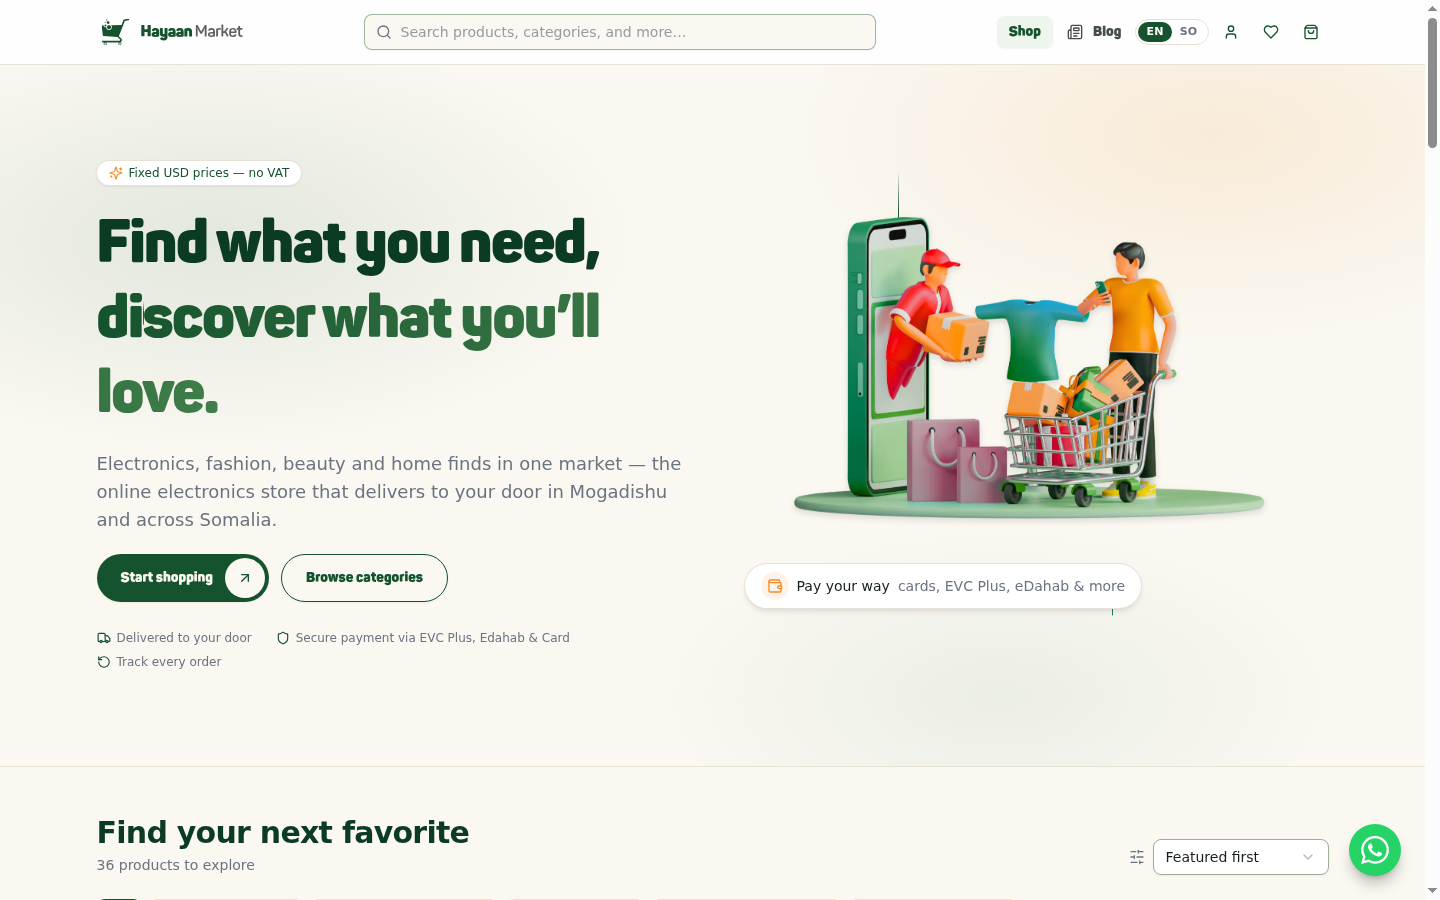
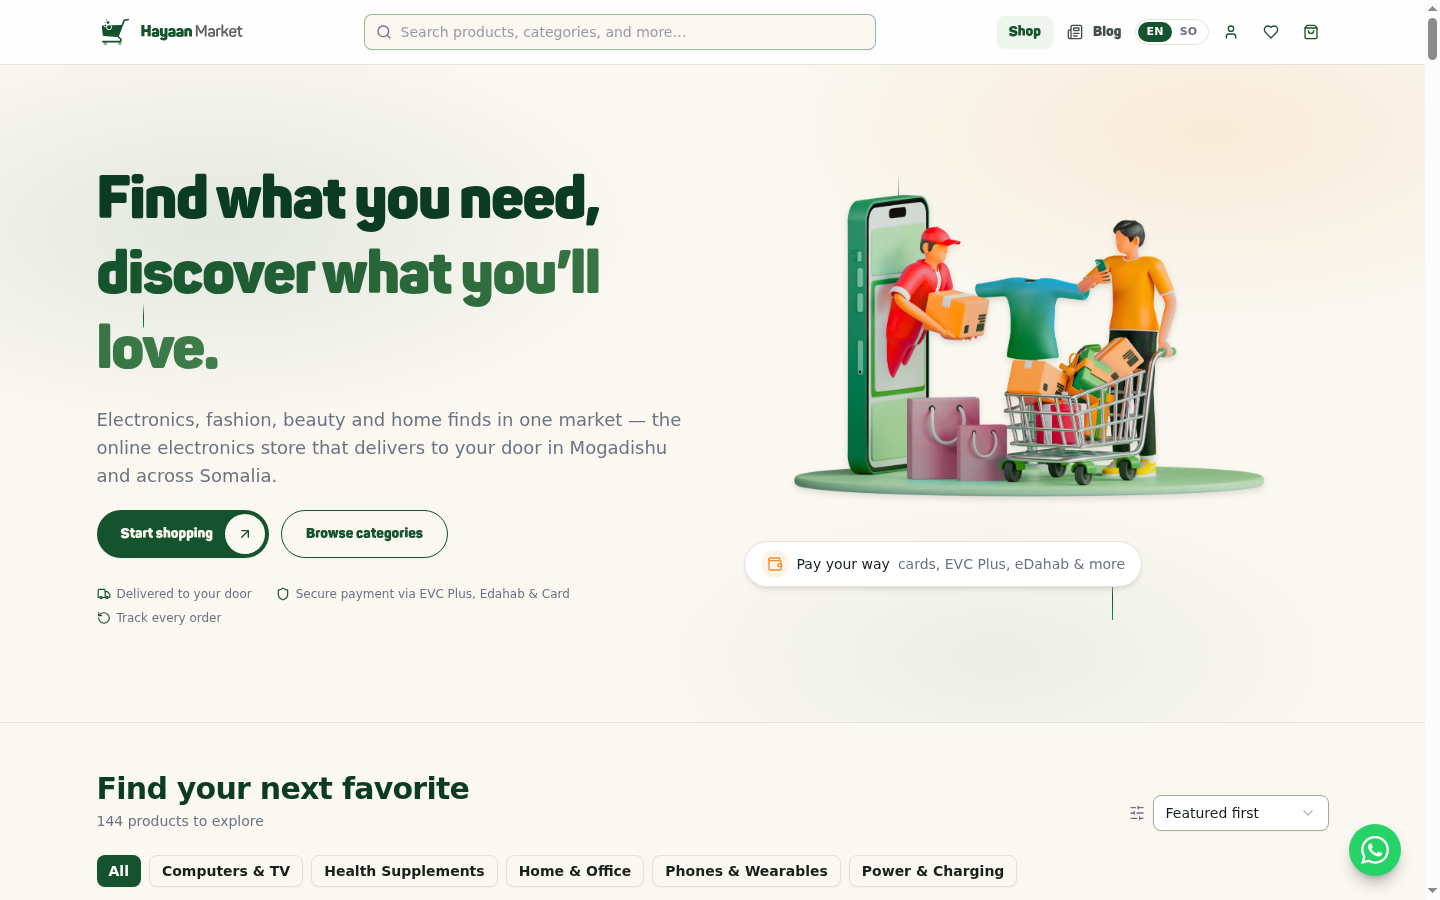
Task 144-deploy: pushed 12992b5..b06362e, CI PASS first run ~4.5min, prod verified 44/44 (t144 16/16 + t141 17/17 + t142 11/11) — 'Fixed USD prices — no VAT' badge gone from EN+SO hero on prod, Pay-your-way chip + Task 142 raise untouched, v1 URL still 404; worklog + prod evidence screenshots

diff --git a/worklog.md b/worklog.md
@@ -3426,3 +3426,19 @@ Work Log:
 Stage Summary:
 - Task 143 CODE COMPLETE (push pending): 29th live blog post targets the "venture capital" keyword cluster (Keyword Planner 100-1K/mo) with full AEO kit (quick answer + FAQPage + HowTo schema), funnels to /investors, 14/14 local verify incl. 9-link resolution + cover + schema. After push + CI: re-run harness against prod (cover must render there), close.
 - Deploy + prod verify (same session): pushed e650798..12992b5 (carrying sandbox housekeeping commit db0b568), CI PASS in ~100s. Prod harness 14/14 on https://hayaan.co — page 200, quick-answer box, JSON-LD BlogPosting+FAQPage+HowTo, all 5 FAQs, canonical + og:image, cover 200 image/jpeg (renders on prod as predicted), /blog index + sitemap.xml + llms.txt + llms-full.txt all list it, all 9 internal links resolve 200. Screenshot download/task143-blog-prod-venture-capital-in-somalia.png. Task 143 CLOSED — post #29 live, /investors funnel now covers the venture-capital keyword cluster end to end.
+
+---
+Task ID: 144
+Agent: Super Z (main)
+Task: Owner: "Remove the text I marked for you" (screenshot red-circles the "Fixed USD prices — no VAT" hero badge) + GH token
+
+Work Log:
+- Marked element identified: the white pill above the H1 with the orange Sparkles icon + t("hero.badge") = "Fixed USD prices — no VAT" (hero.tsx lines 35-38). NOT the Pay-your-way chip on the artwork (that's the Task 142 element, owner didn't circle it) — both look similar (white rounded-full pills) so the dictionary key + position above the H1 settled it.
+- Removal: badge <span> deleted from hero.tsx (H1 now leads the copy column), "hero.badge" key dropped from BOTH dictionaries (EN line 52 + SO line 623), unused Sparkles import removed. Nothing else referenced hero.badge (grep-verified).
+- Repo hygiene: local had 2 unpushed Task 143 evidence commits (a6496a3 worklog note, d958830 prod screenshot which ALSO accidentally re-added public/images/hero-shopping-3d.webp — the file Task 141 deliberately killed). Deleted the v1 file again in this commit so the dead URL stays dead once pushed. Lesson recorded: git stash pop does NOT preserve staged-vs-unstaged (my git rm was silently unstaged by the tsc-baseline stash test; caught by reviewing git show --stat before push).
+- Verify false-positive fixed en route: my first SSR fingerprint "px-3 py-1" matched the search input (not the badge) — swapped to the badge's unique class combo "w-fit items-center gap-1.5 rounded-full bg-white". 54-line tsc output identical to baseline (zero new type errors).
+- Local verify (fresh dev server, single session): t144 16/16 — EN+SO badge text gone from SSR + unique markup fingerprint gone, hero v2 asset/H1/subtitle/chip intact, live-DOM desktop probe (badge absent, chip live, artwork live), SO runtime toggle really switches (SO H1 renders) and the SO badge text is absent there too, 390x844 screenshot; PLUS regressions t141 17/17 + t142 11/11 (chip geometry byte-identical: desktop translate 0px -48px gap +16, narrow none/-32).
+
+Stage Summary:
+- Task 144 CODE COMPLETE (push pending): owner-marked badge removed in EN+SO, Pay-your-way chip untouched, 44/44 local. After push + CI: re-run all 3 suites against prod, close.
+- Deploy + prod verify (same session): pushed 12992b5..b06362e (carrying the 2 Task 143 evidence commits), CI PASS first run (~4.5min incl. CF queue — no transient this time). Prod on https://hayaan.co: t144 16/16 + t141 17/17 + t142 11/11 = 44/44, zero console errors, served asset md5 44421efe41 unchanged, old v1 URL still 404, chip/artwork geometry identical to Task 142 baseline. Prod screenshots download/t144-hero-desktop.png + t144-hero-mobile.png. Task 144 CLOSED — badge gone from both languages, headline leads the hero.
